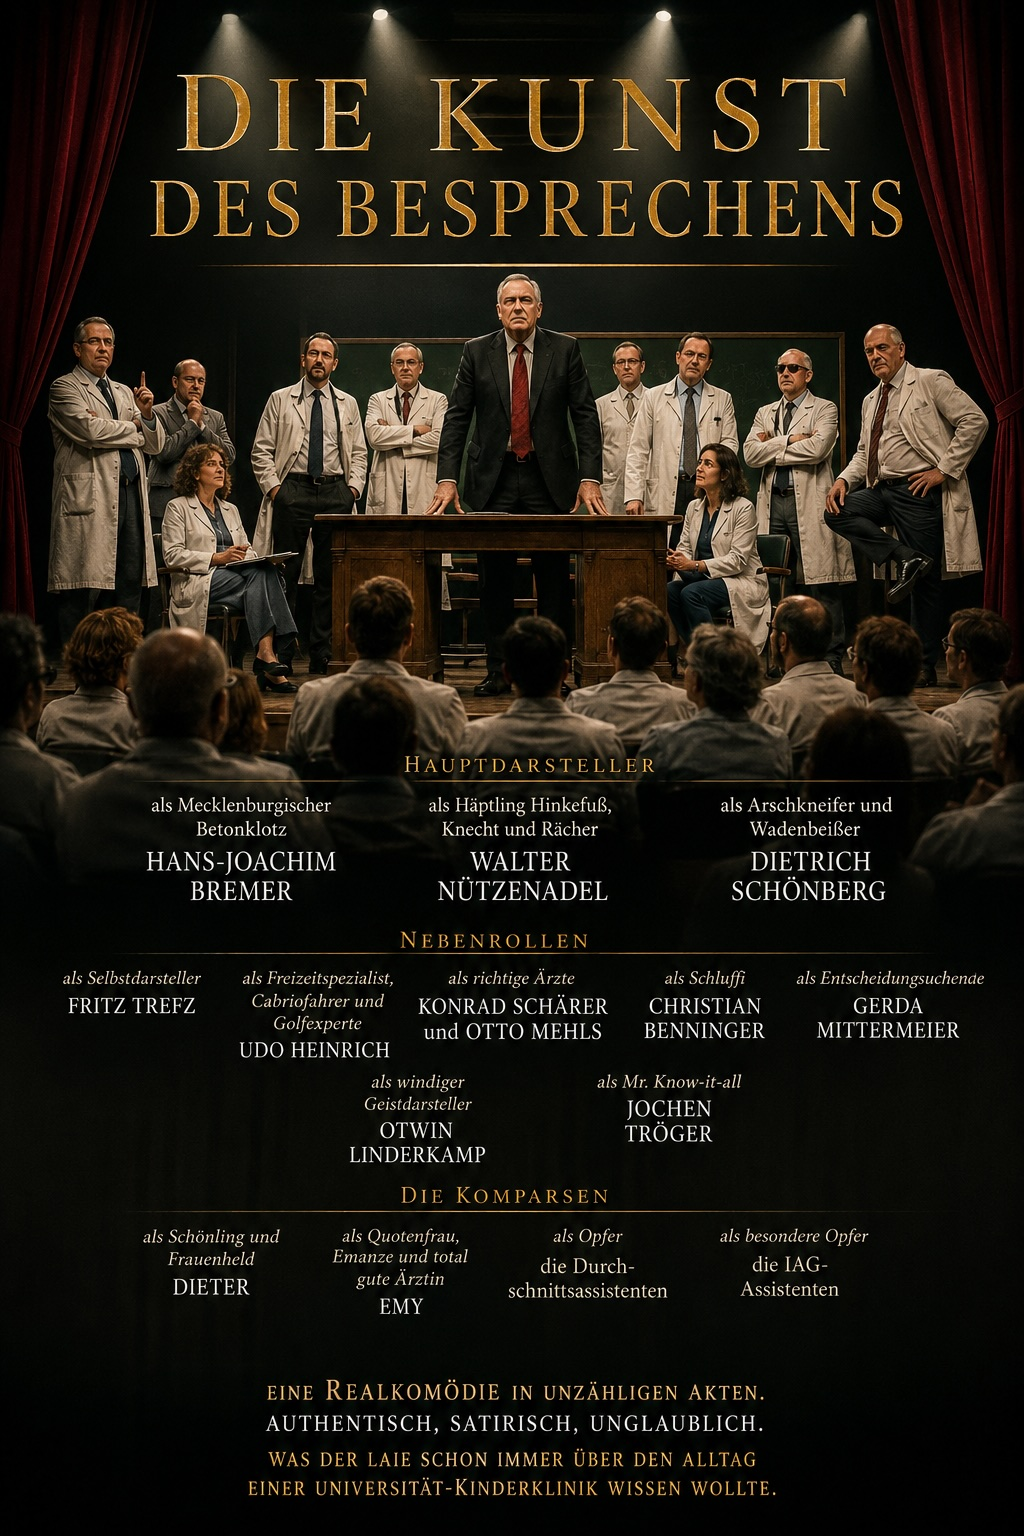
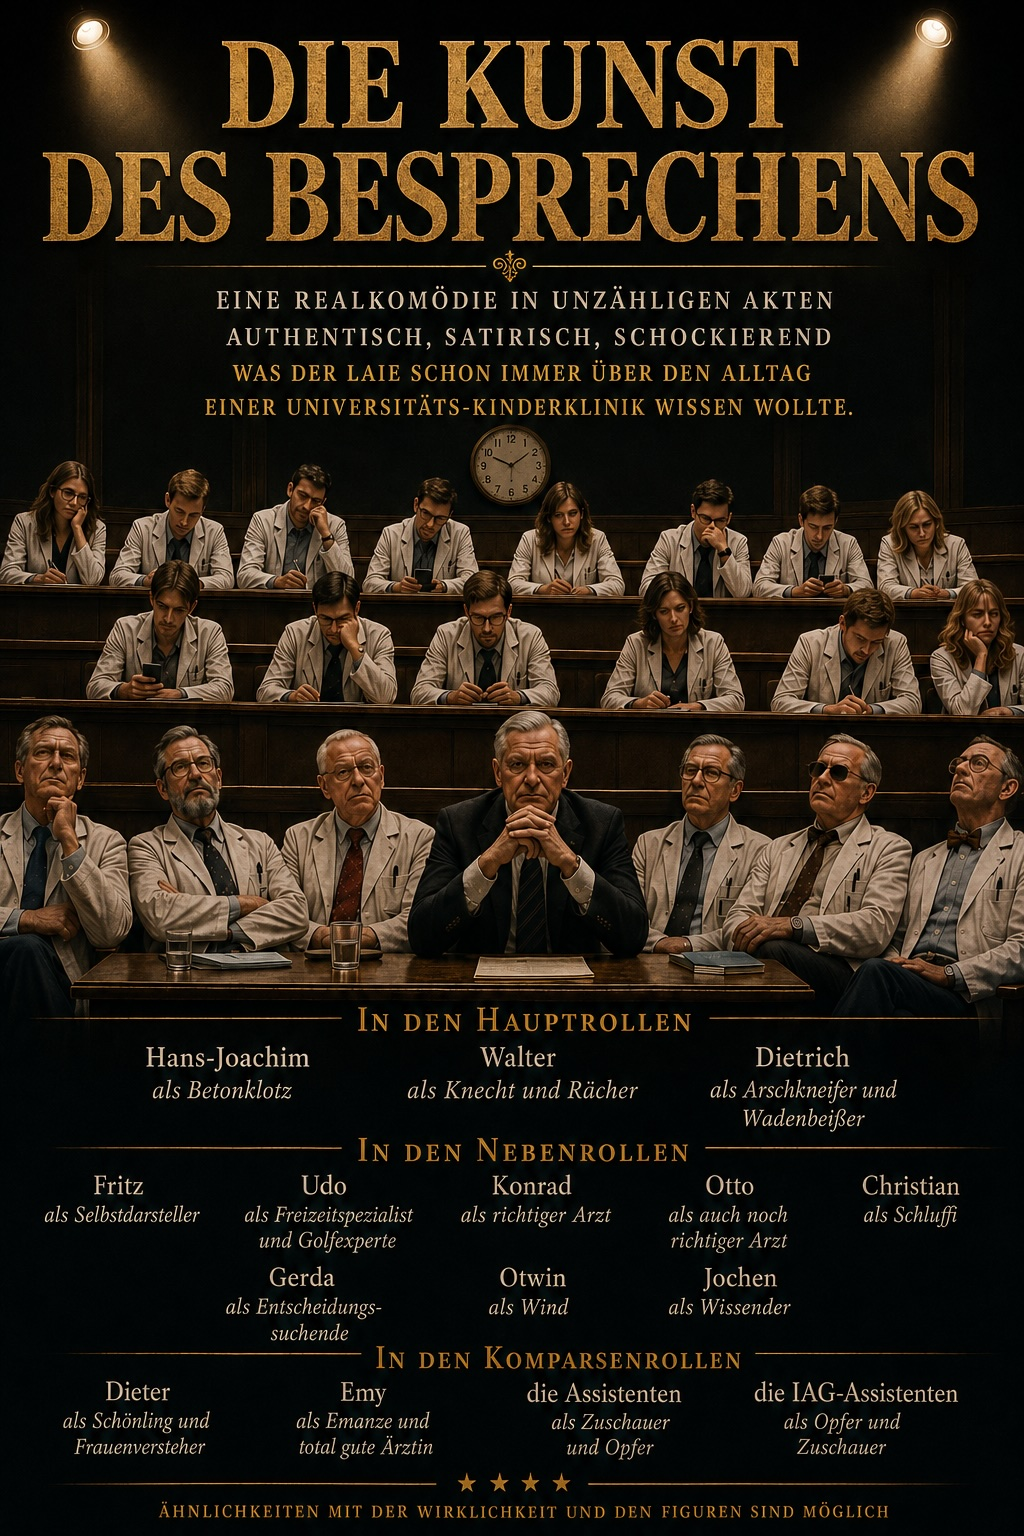
Besprechungsankündigung aktualisiert

diff --git a/arbeit-leben/05-heidelberg/klinik/kinderklinik-besprechungskunst.html b/arbeit-leben/05-heidelberg/klinik/kinderklinik-besprechungskunst.html
@@ -84,7 +84,7 @@
         Seine Stationsvisiten waren allerdings grotesk und seinem damaligen Oberarzt gegenüber geradezu entwürdigend. Wolf saß am Schreibtisch, ihm gegenüber seine Stationeuse. Sein Oberarzt Herbert Ulmer musste das Ganze stehend über sich ergehen lassen. Das Absurde daran: Als Ulmer später Wolfs Nachfolger wurde, führte er dasselbe Schauspiel mit seinem eigenen Oberarzt Klaus Schmitt auf.
       </p>
       <p>
-        Die Klinik für Neonatologie wurde von Prof. Otwin Linderkamp geleitet. Er war aus München nach Heidelberg berufen worden und gehörte zu den Ersten, die die Besuchszeiten für Eltern von Frühgeborenen abschafften. Man kannte ihn auch unter dem Namen „Windy Lindi“, denn gelegentlich war er einfach mit dem Wind verschwunden und nicht auffindbar. Nach einem sich anbahnenden Skandal wurde er praktisch über Nacht entsorgt. Als Mensch war er angenehm und keiner, der sich an den Selbstinszenierungen des Heidelberger Laientheaters beteiligte. Dafür umso mehr seine beiden Oberärzte Gonne Kühl und Eugen Zilow. Gonne Kühl war eloquent und souverän. Zilow ebenfalls eloquent, zugleich aber maßlos von sich selbst überzeugt – die Miniausgabe von Nützenadel.
+        Die Klinik für Neonatologie wurde von Prof. Otwin Linderkamp geleitet. Er war aus München nach Heidelberg berufen worden und gehörte zu den Ersten, die die Besuchszeiten für Eltern von Frühgeborenen abschafften. Man kannte ihn auch unter dem Namen „Windy Lindi“, denn gelegentlich war er einfach mit dem Wind verschwunden und nicht auffindbar. Nach einem sich anbahnenden Skandal wurde er praktisch über Nacht entsorgt. Als Mensch war er angenehm und keiner, der sich an den Selbstinszenierungen des Heidelberger Laientheaters beteiligte. Dafür umso mehr seine beiden Oberärzte Gonne Kühl und Eugen Zilow. Gonne Kühl war eloquent und souverän. Zilow ebenfalls eloquent, zugleich aber maßlos von sich selbst überzeugt – eine Nützenadel-Miniausgabe.
       </p>
       <p>
         Schließlich gab es noch die angeschlossene, aber selbständige Klinik für Pädiatrische Radiologie unter der Leitung von Prof. Jochen Tröger. Fachlich war er hervorragend, zugleich aber geradezu extrem von sich und seinem Können überzeugt. Meist hielt er sich aus den Inszenierungen im Hörsaal heraus. Wenn er sich jedoch einmischte, dann richtig – und gelegentlich auch auf eine Art, die ins Unfaire abdriftete.
@@ -98,7 +98,7 @@
             alt="Besprechungen"
             style="width:100%; display:block; border-radius:16px; box-shadow:0 18px 45px rgba(0,0,0,0.12);">
           <figcaption style="margin-top:0.8rem; font-size:0.95rem; color:#666; text-align:center;">
-          Ankündigung der täglichen Inszenierung
+          So wäre die täglichen Inszenierung durch die Laienschauspieltruppe vielleicht angekündigt worden, wenn es eine Ankündigung gegeben hätte.
           </figcaption>
       </figure>
 
